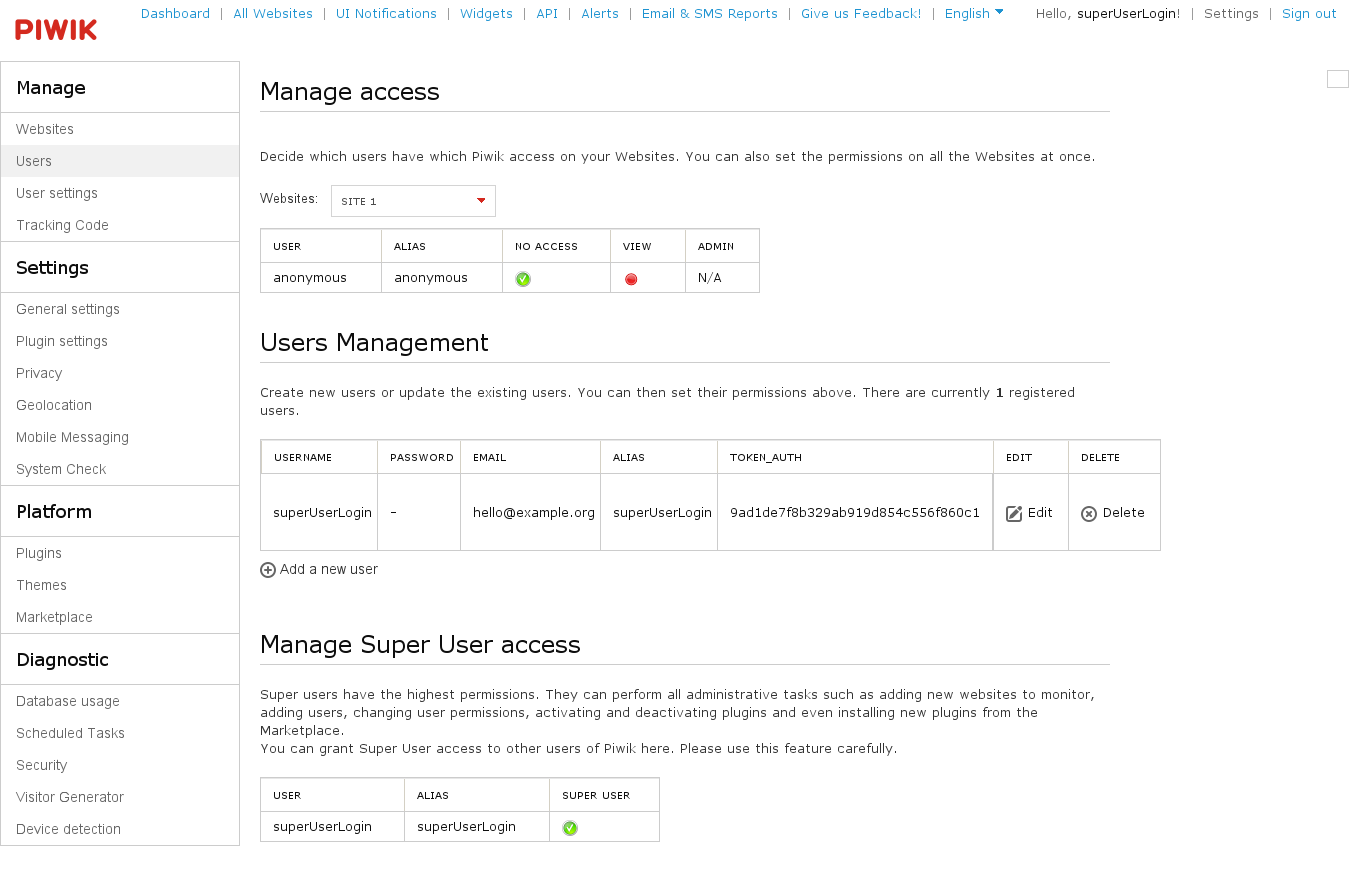
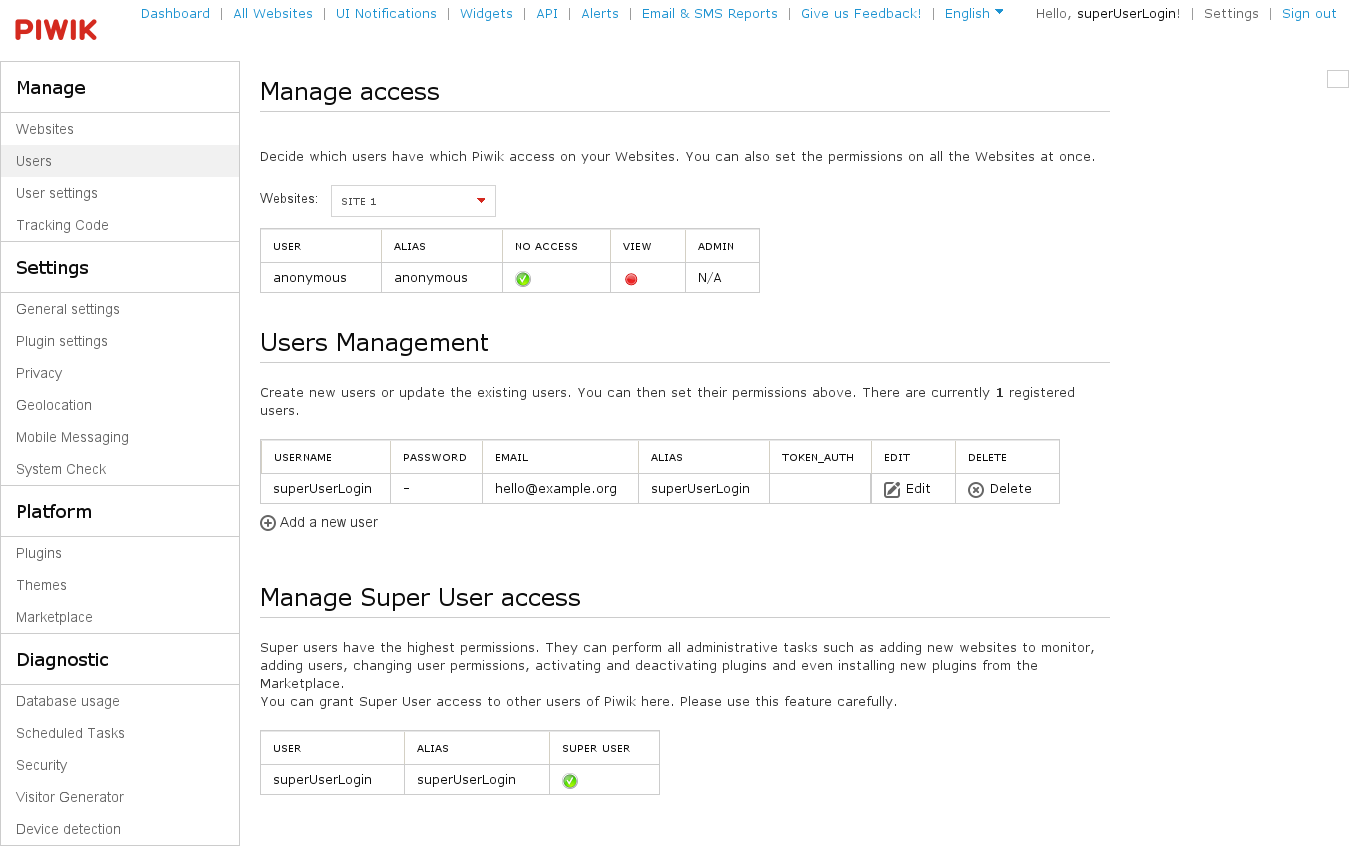
Fixing manage users screenshot tests. [ci skip]

diff --git a/specs/UIIntegration_spec.js b/specs/UIIntegration_spec.js
@@ -304,6 +304,13 @@ describe("UIIntegrationTest", function () { // TODO: Rename to Piwik?
     it('should load the Manage > Users admin page correctly', function (done) {
         expect.screenshot('admin_manage_users').to.be.capture(function (page) {
             page.load("?" + generalParams + "&module=UsersManager&action=index");
+
+            // remove token auth which can be random
+            page.evaluate(function () {
+                $('td#token_auth').each(function () {
+                    $(this).text('');
+                });
+            });
         }, done);
     });
 
